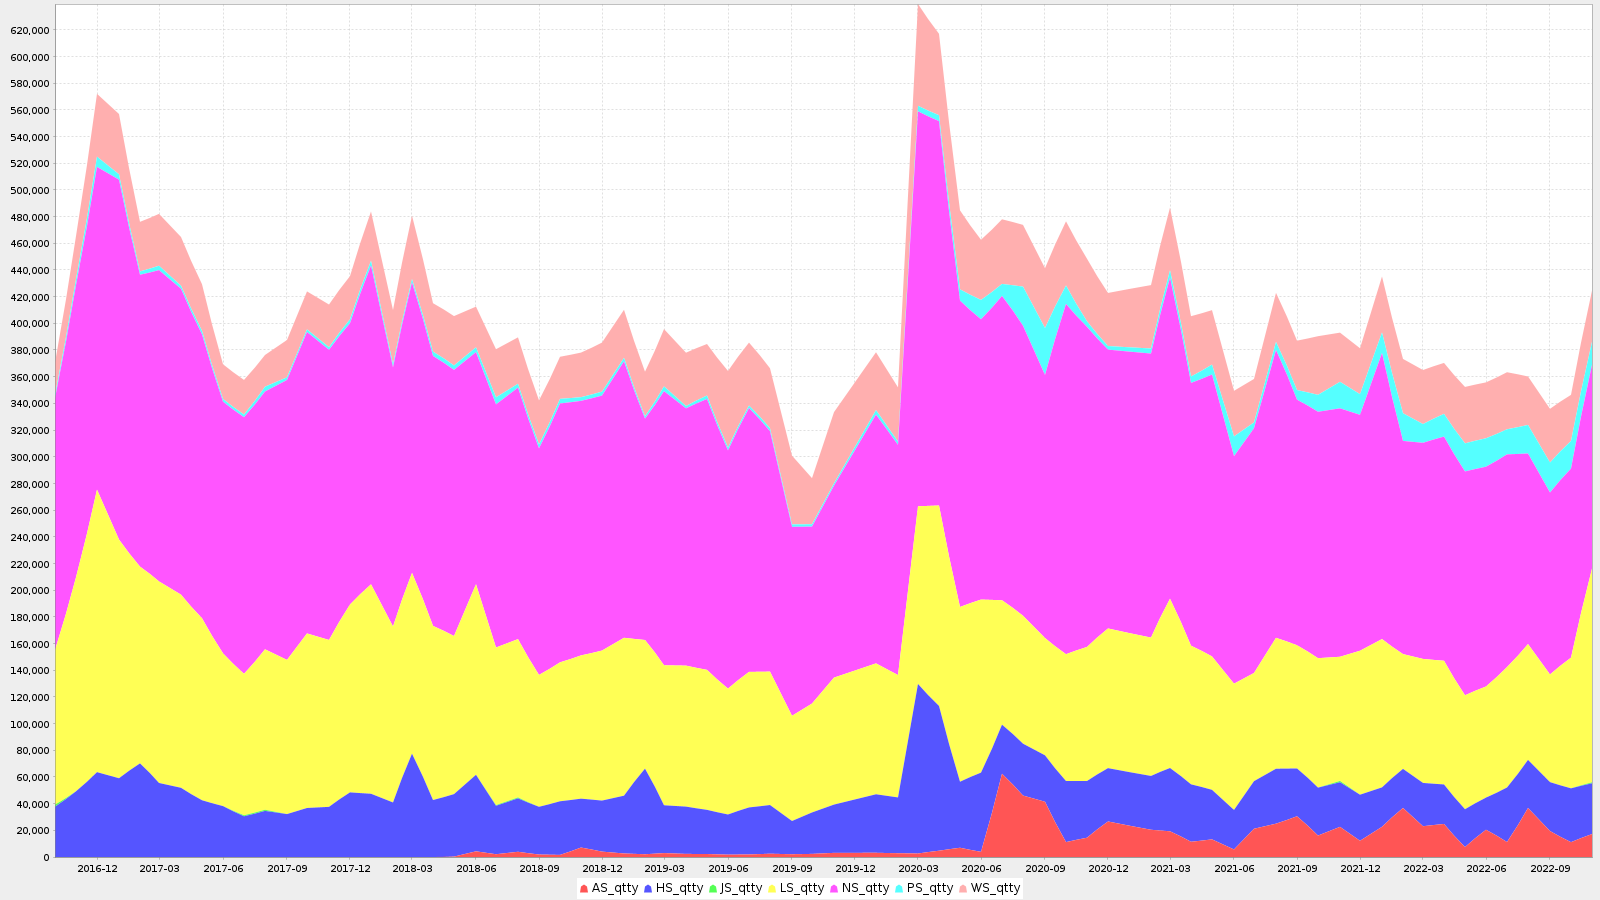
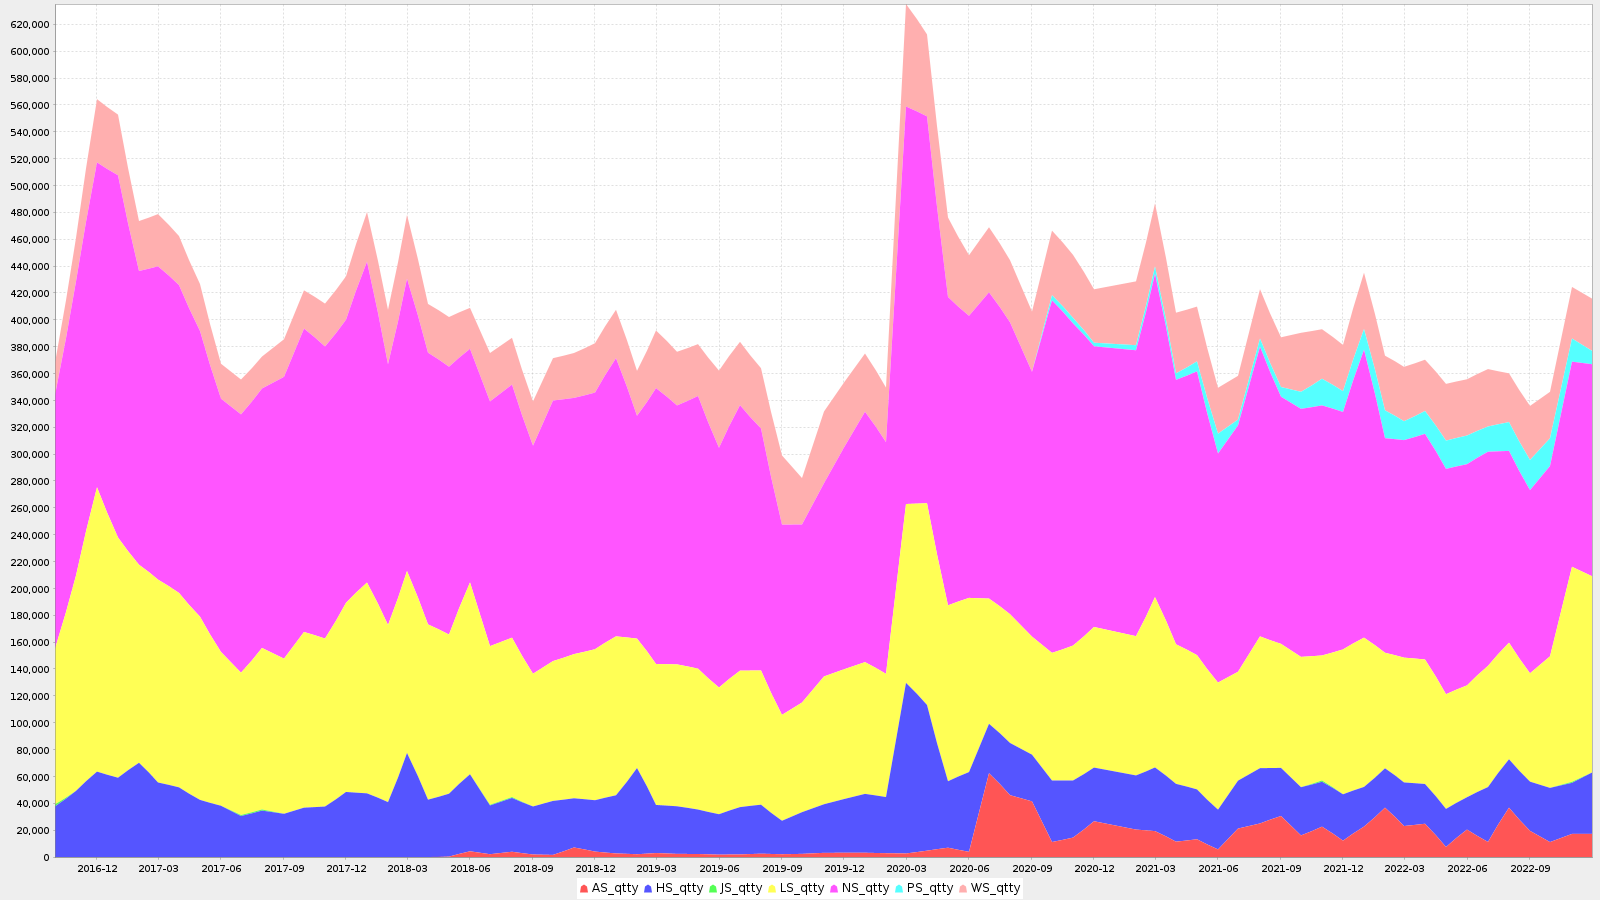
add remove pochven systems before pochven creation

diff --git a/libs/MER/src/main/java/fr/guiguilechat/jcelechat/libs/mer/killdump/filters/SystemFilters.java b/libs/MER/src/main/java/fr/guiguilechat/jcelechat/libs/mer/killdump/filters/SystemFilters.java
@@ -1,10 +1,18 @@
 package fr.guiguilechat.jcelechat.libs.mer.killdump.filters;
 
+import java.time.LocalDateTime;
 import java.util.function.Predicate;
 
 import fr.guiguilechat.jcelechat.libs.mer.killdump.KDParser.KDEntry;
 
 public class SystemFilters {
+
+	public static boolean typed(KDEntry kde) {
+		return kde.getType() != null;
+	}
+
+	public static final LocalDateTime POCHVEN_CREATTION = LocalDateTime.of(2020, 10, 13, 12, 00);
+
 
 	public static final Predicate<KDEntry> AS = new Predicate<>() {
 
@@ -23,7 +31,7 @@ public class SystemFilters {
 
 		@Override
 		public boolean test(KDEntry kde) {
-			return kde.getSolarSystem() != null && kde.getSolarSystem().isAbyssal && kde.getType() != null;
+			return AS.test(kde) && typed(kde);
 		}
 
 		@Override
@@ -49,8 +57,7 @@ public class SystemFilters {
 
 		@Override
 		public boolean test(KDEntry kde) {
-			return kde.getSolarSystem() != null && kde.getSolarSystem().isKS && kde.getSolarSystem().isHS()
-					&& kde.getType() != null;
+			return HS.test(kde) && typed(kde);
 		}
 
 		@Override
@@ -76,7 +83,7 @@ public class SystemFilters {
 
 		@Override
 		public boolean test(KDEntry kde) {
-			return kde.getSolarSystem() != null && kde.getSolarSystem().isJovian && kde.getType() != null;
+			return JS.test(kde) && typed(kde);
 		}
 
 		@Override
@@ -101,8 +108,7 @@ public class SystemFilters {
 
 		@Override
 		public boolean test(KDEntry kde) {
-			return kde.getSolarSystem() != null && kde.getSolarSystem().isKS && kde.getSolarSystem().isLS()
-					&& kde.getType() != null;
+			return LS.test(kde) && typed(kde);
 		}
 
 		@Override
@@ -128,8 +134,7 @@ public class SystemFilters {
 
 		@Override
 		public boolean test(KDEntry kde) {
-			return kde.getSolarSystem() != null && kde.getSolarSystem().isKS && kde.getSolarSystem().isNS()
-					&& kde.getType() != null;
+			return NS.test(kde) && typed(kde);
 		}
 
 		@Override
@@ -142,7 +147,7 @@ public class SystemFilters {
 
 		@Override
 		public boolean test(KDEntry kde) {
-			return kde.getSolarSystem() != null && kde.getSolarSystem().isPochven;
+			return kde.getSolarSystem() != null && kde.getSolarSystem().isPochven && kde.getDate().isAfter(POCHVEN_CREATTION);
 		}
 
 		@Override
@@ -155,7 +160,7 @@ public class SystemFilters {
 
 		@Override
 		public boolean test(KDEntry kde) {
-			return kde.getSolarSystem() != null && kde.getSolarSystem().isPochven && kde.getType() != null;
+			return PS.test(kde) && typed(kde);
 		}
 
 		@Override
@@ -181,7 +186,7 @@ public class SystemFilters {
 
 		@Override
 		public boolean test(KDEntry kde) {
-			return kde.getSolarSystem() != null && kde.getSolarSystem().isWormhole && kde.getType() != null;
+			return WS.test(kde) && typed(kde);
 		}
 
 		@Override

diff --git a/libs/MER/src/main/java/fr/guiguilechat/jcelechat/libs/mer/killdump/KDParser.java b/libs/MER/src/main/java/fr/guiguilechat/jcelechat/libs/mer/killdump/KDParser.java
@@ -5,6 +5,8 @@ import java.io.FileReader;
 import java.time.LocalDateTime;
 import java.time.format.DateTimeFormatter;
 import java.util.ArrayList;
+import java.util.Collection;
+import java.util.Collections;
 import java.util.List;
 import java.util.Locale;
 import java.util.Map;
@@ -136,6 +138,8 @@ public class KDParser {
 
 	}
 
+	public static final KDParser INSTANCE = new KDParser();
+
 	public List<KDEntry> parse(File MERRooot) {
 		return parseDump(findKD(MERRooot));
 	}
@@ -174,9 +178,19 @@ public class KDParser {
 		return ret;
 	}
 
+	private Collection<KDEntry> loaded = null;
+
 	public Stream<KDEntry> stream() {
-		File[] files = APP.cacheFile().listFiles();
-		return files == null ? Stream.empty() : Stream.of(files).parallel().map(this::parse).flatMap(List::stream);
+		if (loaded == null) {
+			synchronized (parser) {
+				if (loaded == null) {
+					File[] files = APP.cacheFile().listFiles();
+					loaded = files == null ? Collections.emptyList()
+							: Stream.of(files).parallel().map(this::parse).flatMap(List::stream).collect(Collectors.toList());
+				}
+			}
+		}
+		return loaded.stream();
 	}
 
 	private static final DateTimeFormatter dtf = DateTimeFormatter.ofPattern("yyyy-MM");

diff --git a/libs/MER/src/test/java/fr/guiguilechat/jcelechat/libs/mer/killdump/ReportCountIndusHS.java b/libs/MER/src/test/java/fr/guiguilechat/jcelechat/libs/mer/killdump/ReportCountIndusHS.java
@@ -1,9 +1,6 @@
 package fr.guiguilechat.jcelechat.libs.mer.killdump;
 
-import java.io.StringWriter;
 import java.util.List;
-
-import org.jfree.data.time.TimeTableXYDataset;
 
 import fr.guiguilechat.jcelechat.libs.mer.killdump.aaxis.Value;
 import fr.guiguilechat.jcelechat.libs.mer.killdump.filters.GroupFilter;
@@ -14,15 +11,9 @@ public class ReportCountIndusHS {
 
 	@SuppressWarnings("unchecked")
 	public static void main(String[] args) {
-		StringWriter sw = new StringWriter();
-		TimeTableXYDataset dataset = new TimeTableXYDataset();
-		KDReport.generate(sw, dataset, SystemFilters.HS_TYPED,
-				List.of(Value.SUM),
-				TypeFilter.VENTURE, GroupFilter.MINING_BARGE, GroupFilter.EXHUMER, TypeFilter.ORCA,
-				GroupFilter.FREIGHTER, GroupFilter.JUMP_FREIGHTER);
-		KDReport.writeCSV("reports/valueIndusHS.csv", sw);
-		KDReport.writeAreaGraph("reports/valueIndusHSStacked.png", dataset);
-		KDReport.writeLineGraph("reports/valueIndusHSLine.png", dataset);
+		KDReport.makeReport("valueIndusHS", SystemFilters.HS_TYPED, List.of(Value.SUM), TypeFilter.VENTURE,
+				GroupFilter.MINING_BARGE, GroupFilter.EXHUMER, TypeFilter.ORCA, GroupFilter.FREIGHTER,
+				GroupFilter.JUMP_FREIGHTER);
 	}
 
 }

diff --git a/libs/MER/src/test/java/fr/guiguilechat/jcelechat/libs/mer/killdump/ReportValueIndusHS.java b/libs/MER/src/test/java/fr/guiguilechat/jcelechat/libs/mer/killdump/ReportValueIndusHS.java
@@ -1,9 +1,6 @@
 package fr.guiguilechat.jcelechat.libs.mer.killdump;
 
-import java.io.StringWriter;
 import java.util.List;
-
-import org.jfree.data.time.TimeTableXYDataset;
 
 import fr.guiguilechat.jcelechat.libs.mer.killdump.aaxis.Count;
 import fr.guiguilechat.jcelechat.libs.mer.killdump.filters.GroupFilter;
@@ -14,15 +11,9 @@ public class ReportValueIndusHS {
 
 	@SuppressWarnings("unchecked")
 	public static void main(String[] args) {
-		StringWriter sw = new StringWriter();
-		TimeTableXYDataset dataset = new TimeTableXYDataset();
-		KDReport.generate(sw, dataset, SystemFilters.HS_TYPED,
-				List.of(Count.AGG),
-				TypeFilter.VENTURE, GroupFilter.MINING_BARGE, GroupFilter.EXHUMER, TypeFilter.ORCA, GroupFilter.FREIGHTER,
+		KDReport.makeReport("countIndusHS", SystemFilters.HS_TYPED, List.of(Count.AGG), TypeFilter.VENTURE,
+				GroupFilter.MINING_BARGE, GroupFilter.EXHUMER, TypeFilter.ORCA, GroupFilter.FREIGHTER,
 				GroupFilter.JUMP_FREIGHTER);
-		KDReport.writeCSV("reports/countIndusHS.csv", sw);
-		KDReport.writeAreaGraph("reports/countIndusHSStacked.png", dataset);
-		KDReport.writeLineGraph("reports/countIndusHSLine.png", dataset);
 	}
 
 }

diff --git a/libs/MER/src/test/java/fr/guiguilechat/jcelechat/libs/mer/killdump/ReportCountByRegion.java b/libs/MER/src/test/java/fr/guiguilechat/jcelechat/libs/mer/killdump/ReportCountByRegion.java
@@ -1,9 +1,6 @@
 package fr.guiguilechat.jcelechat.libs.mer.killdump;
 
-import java.io.StringWriter;
 import java.util.List;
-
-import org.jfree.data.time.TimeTableXYDataset;
 
 import fr.guiguilechat.jcelechat.libs.mer.killdump.aaxis.Count;
 import fr.guiguilechat.jcelechat.libs.mer.killdump.filters.SystemFilters;
@@ -12,12 +9,7 @@ public class ReportCountByRegion {
 
 	@SuppressWarnings("unchecked")
 	public static void main(String[] args) {
-		StringWriter sw = new StringWriter();
-		TimeTableXYDataset dataset = new TimeTableXYDataset();
-		KDReport.generate(sw, dataset, null, List.of(Count.AGG), SystemFilters.AS, SystemFilters.HS, SystemFilters.JS,
+		KDReport.makeReport("countByRegion", null, List.of(Count.AGG), SystemFilters.AS, SystemFilters.HS, SystemFilters.JS,
 				SystemFilters.LS, SystemFilters.NS, SystemFilters.PS, SystemFilters.WS);
-		KDReport.writeCSV("reports/countByRegion.csv", sw);
-		KDReport.writeAreaGraph("reports/countByRegionStacked.png", dataset);
-		KDReport.writeLineGraph("reports/countByRegionLine.png", dataset);
 	}
 }

diff --git a/libs/MER/src/test/java/fr/guiguilechat/jcelechat/libs/mer/killdump/ReportValueByRegion.java b/libs/MER/src/test/java/fr/guiguilechat/jcelechat/libs/mer/killdump/ReportValueByRegion.java
@@ -1,9 +1,6 @@
 package fr.guiguilechat.jcelechat.libs.mer.killdump;
 
-import java.io.StringWriter;
 import java.util.List;
-
-import org.jfree.data.time.TimeTableXYDataset;
 
 import fr.guiguilechat.jcelechat.libs.mer.killdump.aaxis.Value;
 import fr.guiguilechat.jcelechat.libs.mer.killdump.filters.SystemFilters;
@@ -12,12 +9,7 @@ public class ReportValueByRegion {
 
 	@SuppressWarnings("unchecked")
 	public static void main(String[] args) {
-		StringWriter sw = new StringWriter();
-		TimeTableXYDataset dataset = new TimeTableXYDataset();
-		KDReport.generate(sw, dataset, null, List.of(Value.SUM), SystemFilters.AS, SystemFilters.HS, SystemFilters.JS,
+		KDReport.makeReport("valueByRegion", null, List.of(Value.SUM), SystemFilters.AS, SystemFilters.HS, SystemFilters.JS,
 				SystemFilters.LS, SystemFilters.NS, SystemFilters.PS, SystemFilters.WS);
-		KDReport.writeCSV("reports/valueByRegion.csv", sw);
-		KDReport.writeAreaGraph("reports/valueByRegionStacked.png", dataset);
-		KDReport.writeLineGraph("reports/valueByRegionLine.png", dataset);
 	}
 }

diff --git a/libs/MER/src/main/java/fr/guiguilechat/jcelechat/libs/mer/killdump/KDReport.java b/libs/MER/src/main/java/fr/guiguilechat/jcelechat/libs/mer/killdump/KDReport.java
@@ -164,4 +164,15 @@ public class KDReport {
 		}
 	}
 
+	@SuppressWarnings("unchecked")
+	public static void makeReport(String reportName, Predicate<KDEntry> filter,
+			List<ToDoubleBiFunction<Collection<KDEntry>, Collection<KDEntry>>> eval, Predicate<KDEntry>... columns) {
+		StringWriter sw = new StringWriter();
+		TimeTableXYDataset dataset = new TimeTableXYDataset();
+		generate(sw, dataset, filter, eval, columns);
+		writeCSV("reports/" + reportName + ".csv", sw);
+		writeAreaGraph("reports/" + reportName + "Stacked.png", dataset);
+		writeLineGraph("reports/" + reportName + "Line.png", dataset);
+	}
+
 }

diff --git a/libs/MER/src/test/java/fr/guiguilechat/jcelechat/libs/mer/killdump/ReportAll.java b/libs/MER/src/test/java/fr/guiguilechat/jcelechat/libs/mer/killdump/ReportAll.java
@@ -1,0 +1,12 @@
+package fr.guiguilechat.jcelechat.libs.mer.killdump;
+
+public class ReportAll {
+
+	public static void main(String[] args) {
+		ReportCountByRegion.main(args);
+		ReportCountIndusHS.main(args);
+		ReportValueByRegion.main(args);
+		ReportValueIndusHS.main(args);
+	}
+
+}
